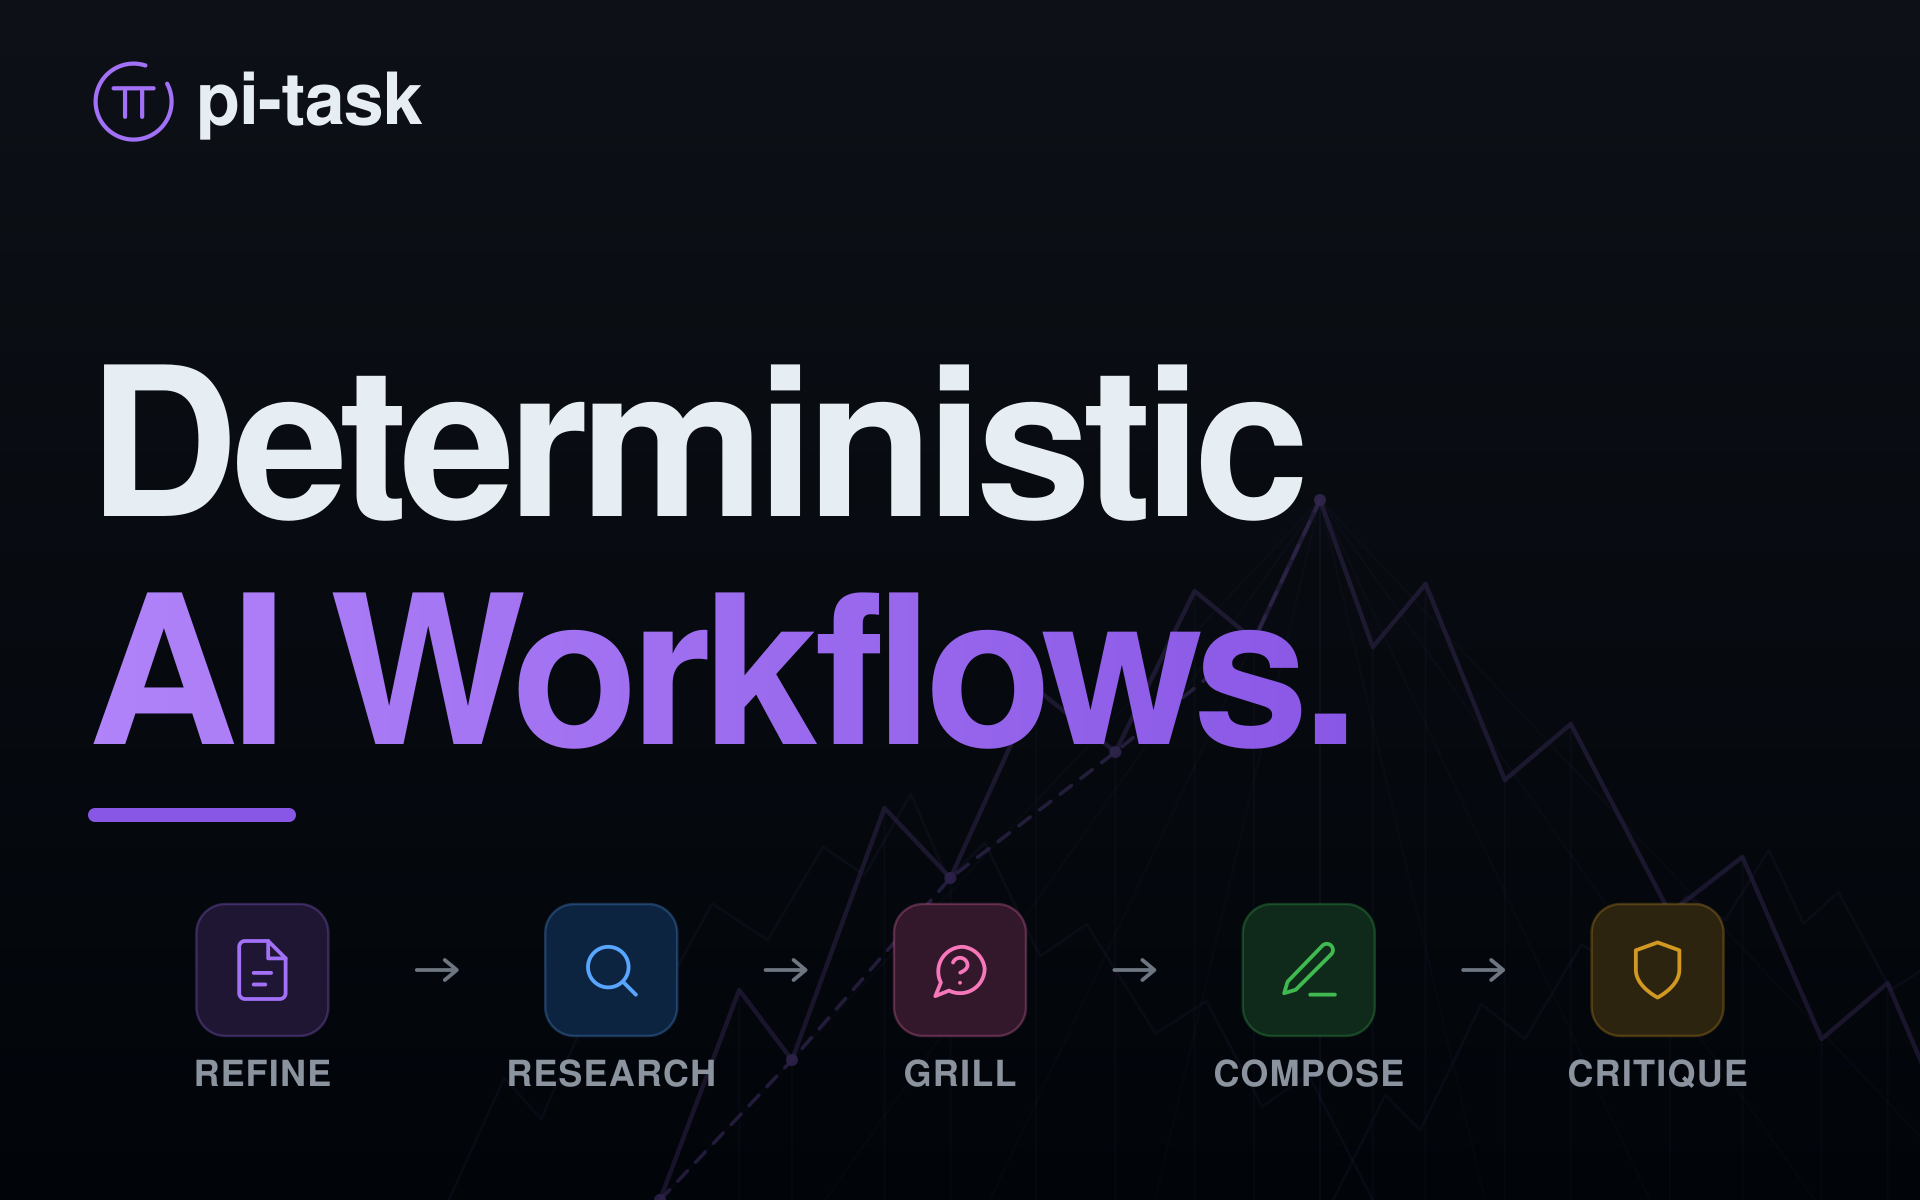
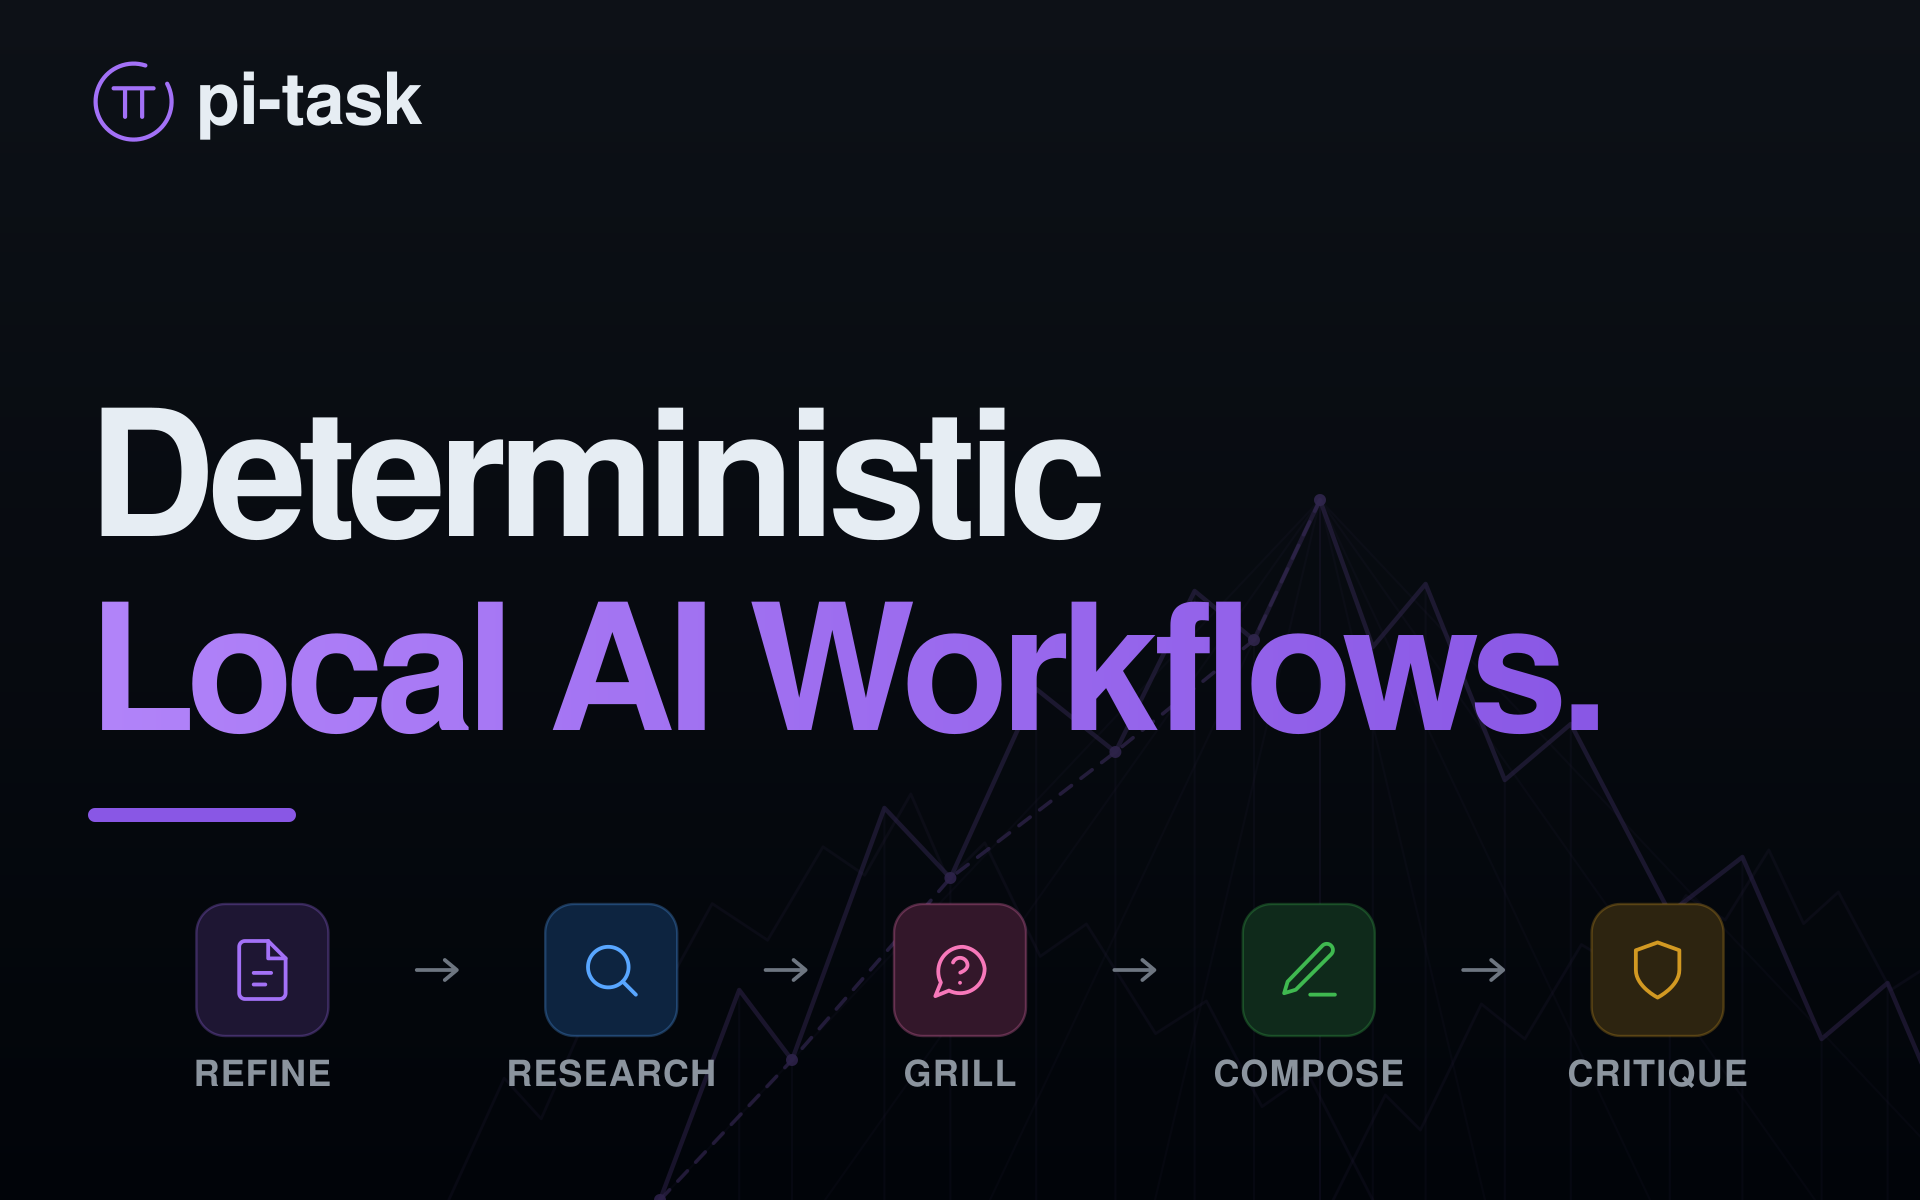
docs(hero): say "Local" in the headline
The README tagline has always led with "for local models" but the hero
did not. "Deterministic Local AI Workflows." does not fit the old
two-line headline (543px against ~410px of clear space before the phase
tiles on the hero, 934px against 872px of column on the card), so the
headline generator now takes a line array instead of hardcoding the two
strings: the hero breaks over three lines at the same 62px, the card
stays two lines at 88px instead of 104px.

Changed region(s): [[0.0312, 0.4933, 0.8438, 0.6475], [0.0312, 0.2775, 0.6875, 0.4625]]

diff --git a/scripts/gen-hero.ts b/scripts/gen-hero.ts
@@ -10,8 +10,10 @@
  * at 168px wide — a non-16:10 source loses the overflow to the crop. At that
  * size everything shrinks by 0.175x, which is what splits the two files: the
  * README hero's 9.5px tile descriptions would render at 1.7px on the card, so
- * the card drops them and spends the space on the headline instead (104px ->
- * 18.2px, against 62px -> 10.8px for the hero's).
+ * the card drops them and spends the space on the headline instead (88px ->
+ * 15.4px, against 62px -> 10.8px for the hero's). The card also keeps the
+ * headline to two lines — a third would land on the tiles — which is why
+ * "Local AI Workflows." rides one line there and breaks over two on the hero.
  *
  * PNG export shells out to rsvg-convert at 2x (1920x1200) when it is on PATH;
  * the SVGs are always written.
@@ -214,9 +216,16 @@ const tile = (p: Phase, x: number, y: number, size: number, iconScale: number) =
   <g transform="translate(${ix},${iy}) scale(${iconScale})" fill="none" stroke="${p.stroke}" stroke-width="${(1.9 / iconScale).toFixed(2)}" stroke-linecap="round" stroke-linejoin="round">${p.icon}</g>`
 }
 
-const headline = (baseline: number, size: number, tracking: number) =>
-    `<text x="${M}" y="${baseline}" font-size="${size}" font-weight="700" fill="${C.text}" letter-spacing="${tracking}">Deterministic</text>
-  <text x="${M}" y="${baseline + Math.round(size * 1.1)}" font-size="${size}" font-weight="700" fill="url(#hl)" letter-spacing="${tracking}">AI Workflows.</text>`
+// First line carries the promise in plain white; the rest is the gradient.
+// Line count differs per asset: the hero has the vertical room to break
+// "Local AI / Workflows." over two lines at full size, the card does not.
+const headline = (lines: string[], baseline: number, size: number, tracking: number) =>
+    lines
+        .map(
+            (line, i) =>
+                `<text x="${M}" y="${baseline + i * Math.round(size * 1.1)}" font-size="${size}" font-weight="700" fill="${i ? 'url(#hl)' : C.text}" letter-spacing="${tracking}">${line}</text>`
+        )
+        .join('\n  ')
 
 /** README hero: full detail, read at full width. */
 function hero() {
@@ -230,14 +239,14 @@ function hero() {
     ]
     let s =
         open(
-            'pi-task — Deterministic AI Workflows. Every request runs a fixed pipeline: refine to clarify and structure it, research to gather information in parallel, grill to cross-examine the findings, compose to write the implementation spec, critique to check it for quality and completeness.'
+            'pi-task — Deterministic Local AI Workflows. Every request runs a fixed pipeline: refine to clarify and structure it, research to gather information in parallel, grill to cross-examine the findings, compose to write the implementation spec, critique to check it for quality and completeness.'
         ) + defs()
     s += mountain({cx: 560, sy: 372, hw: 320, o: 0.5})
     s += `\n  ${logo(M, 34, 0.82, 30)}`
-    s += `\n  ${headline(212, 62, -2)}`
-    s += `\n  <rect x="${M}" y="312" width="72" height="4" rx="2" fill="${C.purpleDeep}"/>`
+    s += `\n  ${headline(['Deterministic', 'Local AI', 'Workflows.'], 186, 62, -2)}`
+    s += `\n  <rect x="${M}" y="354" width="72" height="4" rx="2" fill="${C.purpleDeep}"/>`
     sub.forEach((line, i) => {
-        s += `\n  <text x="${M}" y="${356 + i * 25}" font-size="17" fill="${C.muted}">${line}</text>`
+        s += `\n  <text x="${M}" y="${398 + i * 25}" font-size="17" fill="${C.muted}">${line}</text>`
     })
     PHASES.forEach((p, i) => {
         const x = left + i * (size + gap)
@@ -258,11 +267,11 @@ function card() {
     const step = (W - M * 2) / PHASES.length
     let s =
         open(
-            'pi-task — Deterministic AI Workflows. Five fixed phases: refine, research, grill, compose, critique.'
+            'pi-task — Deterministic Local AI Workflows. Five fixed phases: refine, research, grill, compose, critique.'
         ) + defs()
     s += mountain({cx: 660, sy: 250, hw: 330, o: 0.26, flag: false})
     s += `\n  ${logo(M, 28, 0.95, 36)}`
-    s += `\n  ${headline(258, 104, -4)}`
+    s += `\n  ${headline(['Deterministic', 'Local AI Workflows.'], 268, 88, -4)}`
     s += `\n  <rect x="${M}" y="404" width="104" height="7" rx="3.5" fill="${C.purpleDeep}"/>`
     PHASES.forEach((p, i) => {
         const cx = M + step * (i + 0.5)

diff --git a/README.md b/README.md
@@ -1,6 +1,6 @@
 <div align="center">
 
-![pi-task — Deterministic AI Workflows. Every request runs a fixed pipeline: refine to clarify and structure it, research to gather information in parallel, grill to cross-examine the findings, compose to write the implementation spec, critique to check it for quality and completeness.](https://raw.githubusercontent.com/mjasnikovs/pi-task/main/assets/hero.svg)
+![pi-task — Deterministic Local AI Workflows. Every request runs a fixed pipeline: refine to clarify and structure it, research to gather information in parallel, grill to cross-examine the findings, compose to write the implementation spec, critique to check it for quality and completeness.](https://raw.githubusercontent.com/mjasnikovs/pi-task/main/assets/hero.svg)
 
 # pi-task
 
